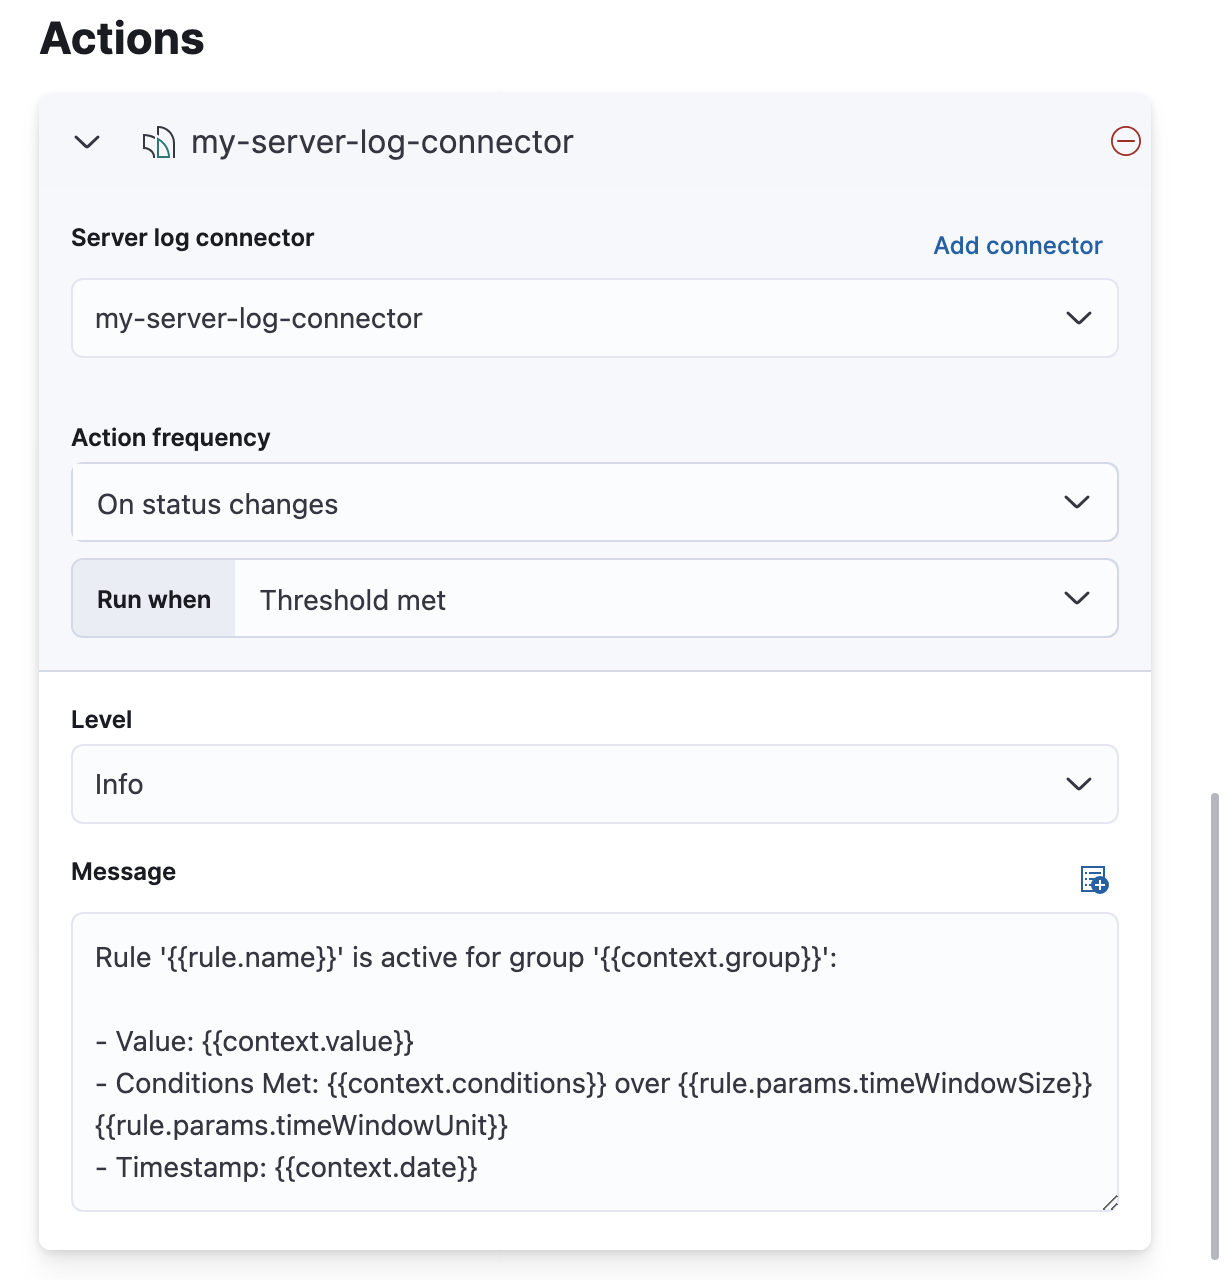
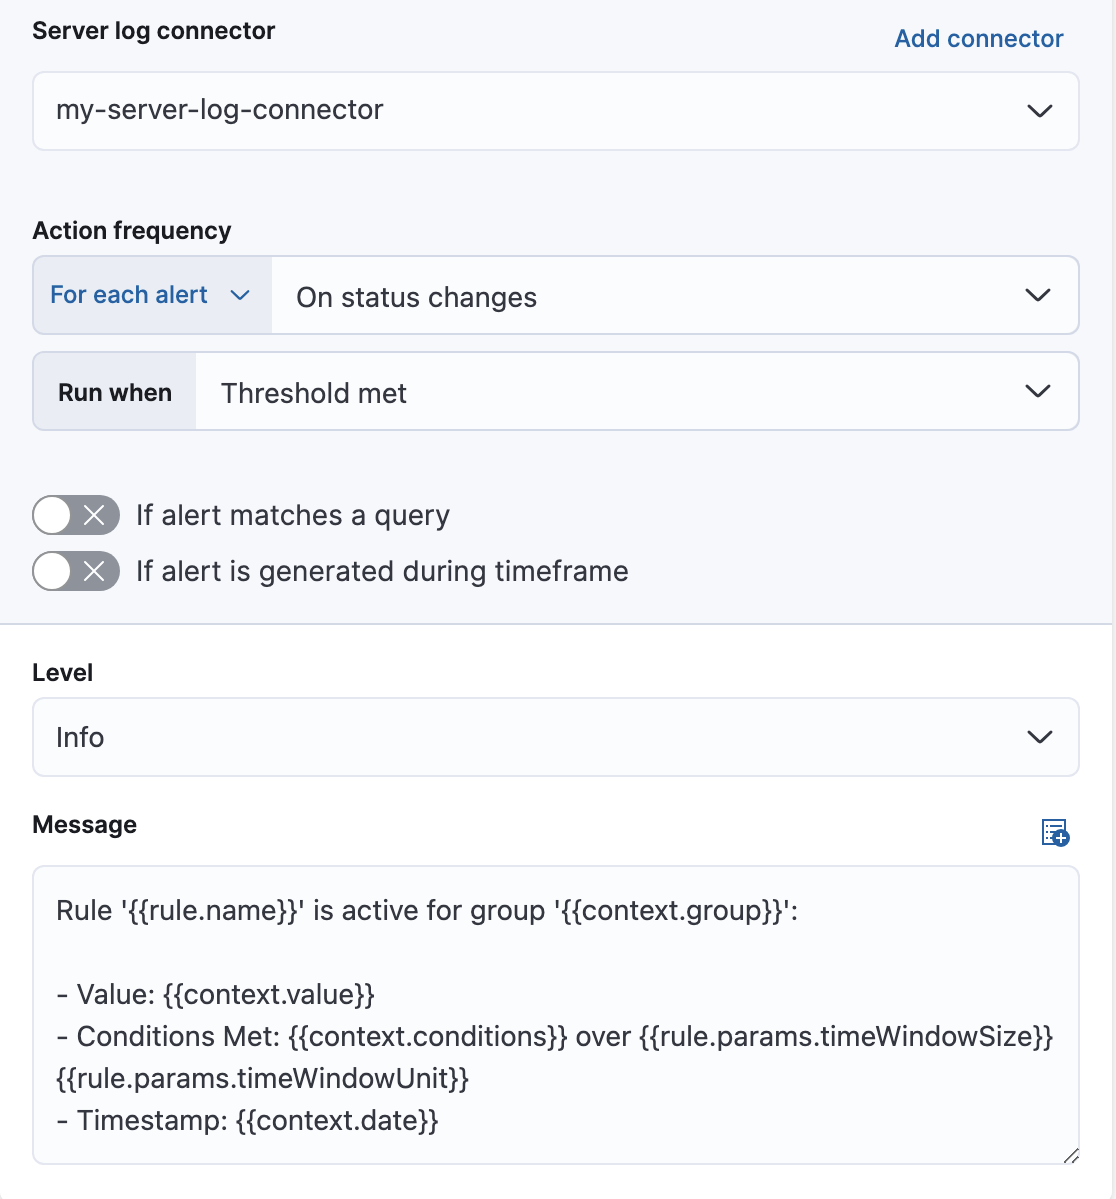
[DOCS] Alerts-as-data for index threshold rules (#169049)

diff --git a/x-pack/test/screenshot_creation/apps/response_ops_docs/stack_alerting/index_threshold_rule.ts b/x-pack/test/screenshot_creation/apps/response_ops_docs/stack_alerting/index_threshold_rule.ts
@@ -79,7 +79,7 @@ export default function ({ getService, getPageObjects }: FtrProviderContext) {
       await testSubjects.click('overExpressionSelect');
       await testSubjects.setValue('overExpressionSelect', 'top');
       await testSubjects.setValue('fieldsNumberSelect', '4');
-      await testSubjects.setValue('fieldsExpressionSelect', 'host.keyword');
+      await comboBox.set('fieldsExpressionSelect', 'host.keyword');
       await commonScreenshots.takeScreenshot(
         'rule-types-index-threshold-example-grouping',
         screenshotDirectories,
@@ -123,6 +123,23 @@ export default function ({ getService, getPageObjects }: FtrProviderContext) {
       await testSubjects.scrollIntoView('addAlertActionButton');
       await commonScreenshots.takeScreenshot(
         'rule-types-index-threshold-example-action',
+        screenshotDirectories,
+        1400,
+        1024
+      );
+
+      const actionFrequency = await testSubjects.find('summaryOrPerRuleSelect');
+      await actionFrequency.click();
+      const actionSummary = await testSubjects.find('actionNotifyWhen-option-summary');
+      await actionSummary.click();
+      const notifyWhen = await testSubjects.find('notifyWhenSelect');
+      await notifyWhen.click();
+      const customInterval = await testSubjects.find('onThrottleInterval');
+      await customInterval.click();
+      await testSubjects.setValue('throttleInput', '24');
+      await testSubjects.scrollIntoView('addAlertActionButton');
+      await commonScreenshots.takeScreenshot(
+        'rule-types-index-threshold-example-action-summary',
         screenshotDirectories,
         1400,
         1024
